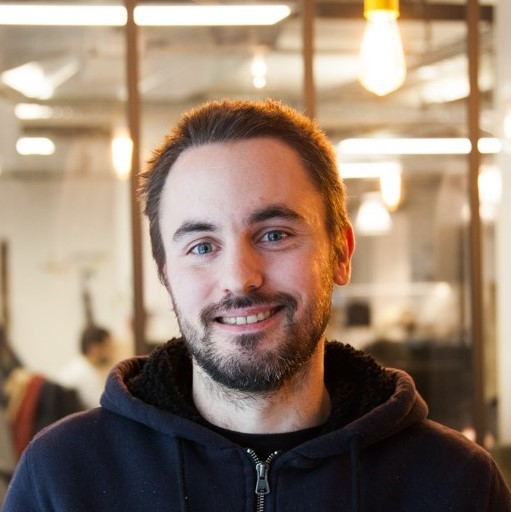
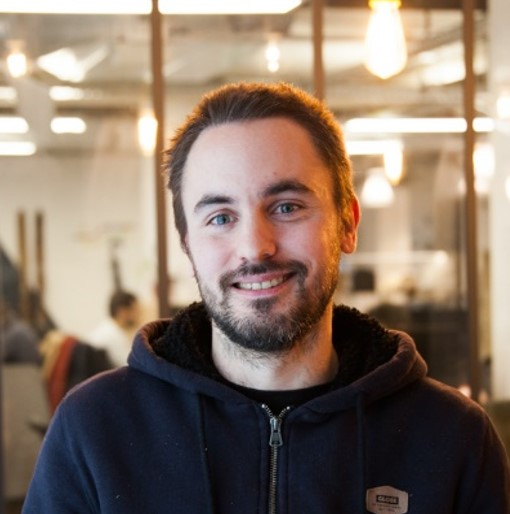
recadrage photo

diff --git a/src/components/Portfolio.js b/src/components/Portfolio.js
@@ -47,9 +47,9 @@ class Porfolio extends Component {
               {language === 'fr' ? (
                 <div className="project">
                   <p className="text-center">
-                    App Your Barber est une application mobile qui met en relation les professionels
-                    du métiers de la coiffure, proposant la mise à disposition de sièges par les
-                    gérants de salon et la réservation par les coiffeurs freelances.
+                    "App Your Barber" est une application mobile qui met en relation les
+                    professionels du métiers de la coiffure en proposant une mise à disposition de
+                    sièges par les gérants de salon et la réservation par les coiffeurs freelances.
                   </p>
                   <p className="text-center">
                     Javascript, React-Native, JSX, Express, MongoDB, Rest API, Stripe, Cloudinary...{' '}
@@ -66,8 +66,8 @@ class Porfolio extends Component {
               ) : (
                 <div className="project">
                   <p className="text-center">
-                    My movies is a single page web-app for viewing last movies release in real-time,
-                    and allow you to manage your favorites movies.
+                    "App Your Barber" is a mobile application which connects Barber Shop by
+                    freelance hairdressers.
                   </p>
                   <p className="text-center">
                     {' '}
@@ -102,8 +102,8 @@ class Porfolio extends Component {
               {language === 'fr' ? (
                 <div className="project">
                   <p className="text-center">
-                    Weather App est une application Web de météo en temps-réel. Permet d'ajouter une
-                    ville et de positioner un marker sur la carte.
+                    "Weather App" est une application Web de météo en temps-réel qui permet
+                    d'ajouter une ville et de positioner un marker sur la carte.
                   </p>
                   <p className="text-center">
                     HTML, CSS, BootStrap, Javascript, JQuery, MongoDB, Rest Api (Open Weather Map,
@@ -113,7 +113,13 @@ class Porfolio extends Component {
                     <Button outline color="secondary" className="shadow p-2 rounded button">
                       Voir la démo
                     </Button>{' '}
-                    <Button outline color="secondary" className="shadow p-2 rounded button">
+                    <Button
+                      href="https://github.com/newblues/weather-app"
+                      target="_blank"
+                      outline
+                      color="secondary"
+                      className="shadow p-2 rounded button"
+                    >
                       Voir sur Github
                     </Button>{' '}
                   </div>
@@ -159,7 +165,7 @@ class Porfolio extends Component {
             </Col>
           </Row>
 
-          {/* App your barber */}
+          {/* My Moviez App */}
           <Row className="rowPorfolio">
             <Col xs="12" md="6" className="d-flex justify-content-center align-items-center">
               <ScrollAnimation className="md-mb" animateIn="fadeInLeft">
@@ -187,17 +193,30 @@ class Porfolio extends Component {
               {language === 'fr' ? (
                 <div className="project">
                   <p className="text-center">
-                    My movies est une application Web single page qui permet de voir les dernières
-                    sorties cinématographiques en temps réel et de gérer ses films favoris.
+                    "My Movies" est une application Web single page qui permet de connaître les
+                    dernières sorties cinématographiques en temps réel et de gérer ses films
+                    favoris.
                   </p>
                   <p className="text-center">
                     Javascript, ReactJS, JSX, Express, MongoDB, Rest API.{' '}
                   </p>
                   <div style={style.projectbuttons}>
-                    <Button outline color="secondary" className="shadow p-2 rounded button">
+                    <Button
+                      href="https://infinite-tor-48908.herokuapp.com/"
+                      target="_blank"
+                      outline
+                      color="secondary"
+                      className="shadow p-2 rounded button"
+                    >
                       Voir la démo
                     </Button>{' '}
-                    <Button outline color="secondary" className="shadow p-2 rounded button">
+                    <Button
+                      href="https://github.com/newblues/mymoviz-app-frontend"
+                      target="_blank"
+                      outline
+                      color="secondary"
+                      className="shadow p-2 rounded button"
+                    >
                       Voir sur Github
                     </Button>{' '}
                   </div>
@@ -213,11 +232,23 @@ class Porfolio extends Component {
                     Javascript, ReactJS, JSX, Express, MongoDB, Rest API.{' '}
                   </p>
                   <div style={style.projectbuttons}>
-                    <Button outline color="secondary" className="shadow p-2 rounded button">
+                    <Button
+                      href="https://infinite-tor-48908.herokuapp.com/"
+                      target="_blank"
+                      outline
+                      color="secondary"
+                      className="shadow p-2 rounded button"
+                    >
                       View Live Demo
                     </Button>{' '}
-                    <Button outline color="secondary" className="shadow p-2 rounded button">
-                      View on Github
+                    <Button
+                      href="https://github.com/newblues/mymoviz-app-frontend"
+                      target="_blank"
+                      outline
+                      color="secondary"
+                      className="shadow p-2 rounded button"
+                    >
+                      > View on Github
                     </Button>{' '}
                   </div>
                 </div>
@@ -249,12 +280,12 @@ const style = {
     justifyContent: 'center',
   },
   logo: {
-    width: 50,
+    width: 60,
     margin: '0px 20px 20px 0px',
   },
   img: {
     height: 'auto',
-    width: 350,
+    width: 400,
   },
   projectbuttons: {
     display: 'flex',

diff --git a/src/components/AboutMe.js b/src/components/AboutMe.js
@@ -20,7 +20,7 @@ class AboutMe extends Component {
           <Row>
             <Col xs="12" className="text-center">
               {language === 'fr' ? (
-                <h3 className="sectionTitle">A propos</h3>
+                <h3 className="sectionTitle">À propos</h3>
               ) : (
                 <h3 className="sectionTitle">About me</h3>
               )}
@@ -34,18 +34,22 @@ class AboutMe extends Component {
               </ScrollAnimation>
               {language === 'fr' ? (
                 <div>
-                  <h4 className="sectionSubtitle">Mon histoire</h4>
+                  <h4 className="sectionSubtitle">En quelques mots</h4>
                   <p>
-                    Hello World ! Je m'appelle Antoine, passionné de code depuis plusieurs années
-                    j'intègre la Capsule un bootcamp. Apres 10 semaines intensive, 2 mois en tant
-                    que teacher assisant et de live Review, et le lancement d'une applicaiton mobile
-                    avec un associé here i am !
+                    "Bonjour à tous ! Passionné de code depuis toujours, j’intègre le Bootcamp de La
+                    Capsule à Paris début 2019. Après dix semaines de travail intensif, deux mois en
+                    tant que "Teacher assistant" et le lancement de ma première application mobile,
+                    je suis fin prêt pour de nouveaux projets !"
                   </p>
                 </div>
               ) : (
                 <div>
-                  <h4 className="sectionSubtitle">My story</h4>
-                  <p>Hello it's me!</p>
+                  <h4 className="sectionSubtitle">In a few words</h4>
+                  <p>
+                    "Hello World! Fan about code since always, I join La Capsule's Bootcamp in Paris
+                    early 2019. After ten weeks of intensive work, two months as "Teacher Assistant"
+                    and the launch of my first mobile app, I'm ready for new projects! "
+                  </p>
                 </div>
               )}
             </Col>
@@ -65,8 +69,7 @@ class AboutMe extends Component {
                 <div>
                   <h4 className="sectionSubtitle">Informations </h4>
                   <p style={style.infoText}>Nom : Antoine Sauvage</p>
-                  <p style={style.infoText}>Age : 35 ans</p>
-                  <p style={style.infoText}>Tel : 06 88 84 71 10</p>
+                  <p style={style.infoText}>Âge : 35 ans</p>
                   <p style={style.infoText}>
                     Email :{' '}
                     <a className="aMail" href={`mailto:${email}`}>
@@ -79,7 +82,6 @@ class AboutMe extends Component {
                   <h4 className="sectionSubtitle">Personal Details </h4>
                   <p style={style.infoText}>Full name : Antoine Sauvage</p>
                   <p style={style.infoText}>Age : 35 years old</p>
-                  <p style={style.infoText}>Phone : +33 6 88 84 71 10</p>
                   <p style={style.infoText}>
                     Email :{' '}
                     <a className="aMail" href={`mailto:${email}`}>
@@ -118,8 +120,7 @@ const style = {
     textAlign: 'left',
   },
   logo: {
-    color: 'red',
-    width: 50,
+    width: 60,
     margin: '0px 0px 20px 0px',
   },
 };

diff --git a/src/components/Skills.js b/src/components/Skills.js
@@ -27,7 +27,7 @@ class Skills extends Component {
               <h4 className="sectionSubtitle">Front-End</h4>
               <p style={style.p}>React JS, React Native, Expo</p>
               <p style={style.p}>Redux</p>
-              <p style={style.p}>JavaScript(es6), JQuery</p>
+              <p style={style.p}>JavaScript(Es6), JQuery</p>
               <p style={style.p}>HTML5</p>
               <p style={style.p}>CSS, Sass</p>
             </Col>
@@ -39,6 +39,7 @@ class Skills extends Component {
               <p style={style.p}>NodeJS, Express</p>
               <p style={style.p}>API Rest</p>
               <p style={style.p}>MongoDb</p>
+              <p style={style.p}>Stripe</p>
               <p style={style.p}>Cloudinary</p>
             </Col>
             <Col style={style.col} xs="12" sm="4">
@@ -73,7 +74,7 @@ const style = {
     alignItems: 'center',
   },
   logo: {
-    width: 50,
+    width: 60,
     margin: '0px 0px 20px 0px',
   },
   p: {

diff --git a/src/App.css b/src/App.css
@@ -45,14 +45,15 @@ a {
   position: relative;
   height: 95vh;
   background-image: url('./images/laptop.png');
-  background-size: cover;
-  background-position: center;
+  background-size: auto auto;
+  background-position: center center;
+  background-repeat: no-repeat;
+
   /* background-attachment: fixed; */
   clip-path: polygon(0 0, 100% 0, 100% 80vh, 0 100%);
   display: flex;
-  flex-direction: column;
   justify-content: center;
-  align-items: center;
+  text-align: center;
   color: var(--brown-color);
   font-family: Montserrat;
 }

diff --git a/src/components/Navbar.js b/src/components/Navbar.js
@@ -57,7 +57,7 @@ class NavBar extends React.Component {
             </NavItem>
             <NavItem>
               <Link className="link" to="/#aboutme">
-                {language === 'fr' ? 'A propos' : 'About me'}
+                {language === 'fr' ? 'À propos' : 'About me'}
               </Link>
             </NavItem>
             <NavItem>

diff --git a/src/components/Home.js b/src/components/Home.js
@@ -44,10 +44,6 @@ const style = {
     justifyContent: 'center',
     alignItems: 'center',
     marginTop: 50,
-    paddingTop: '50px',
-    paddingBottom: '50px',
-    paddingRight: '50px',
-    paddingLeft: '50px',
   },
   vline: {
     position: 'absolute',
